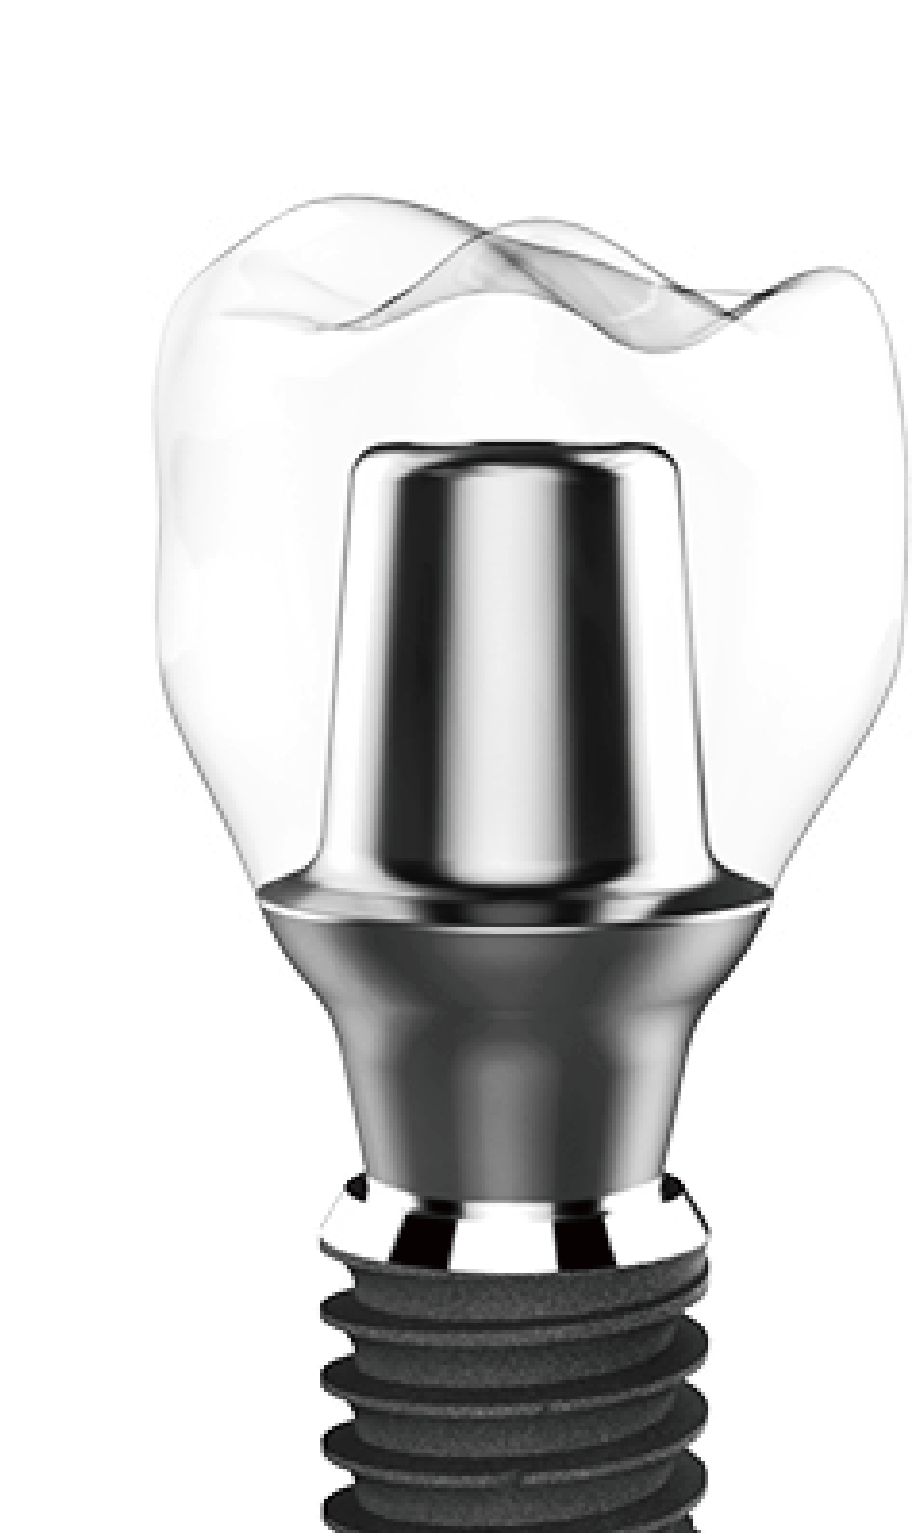
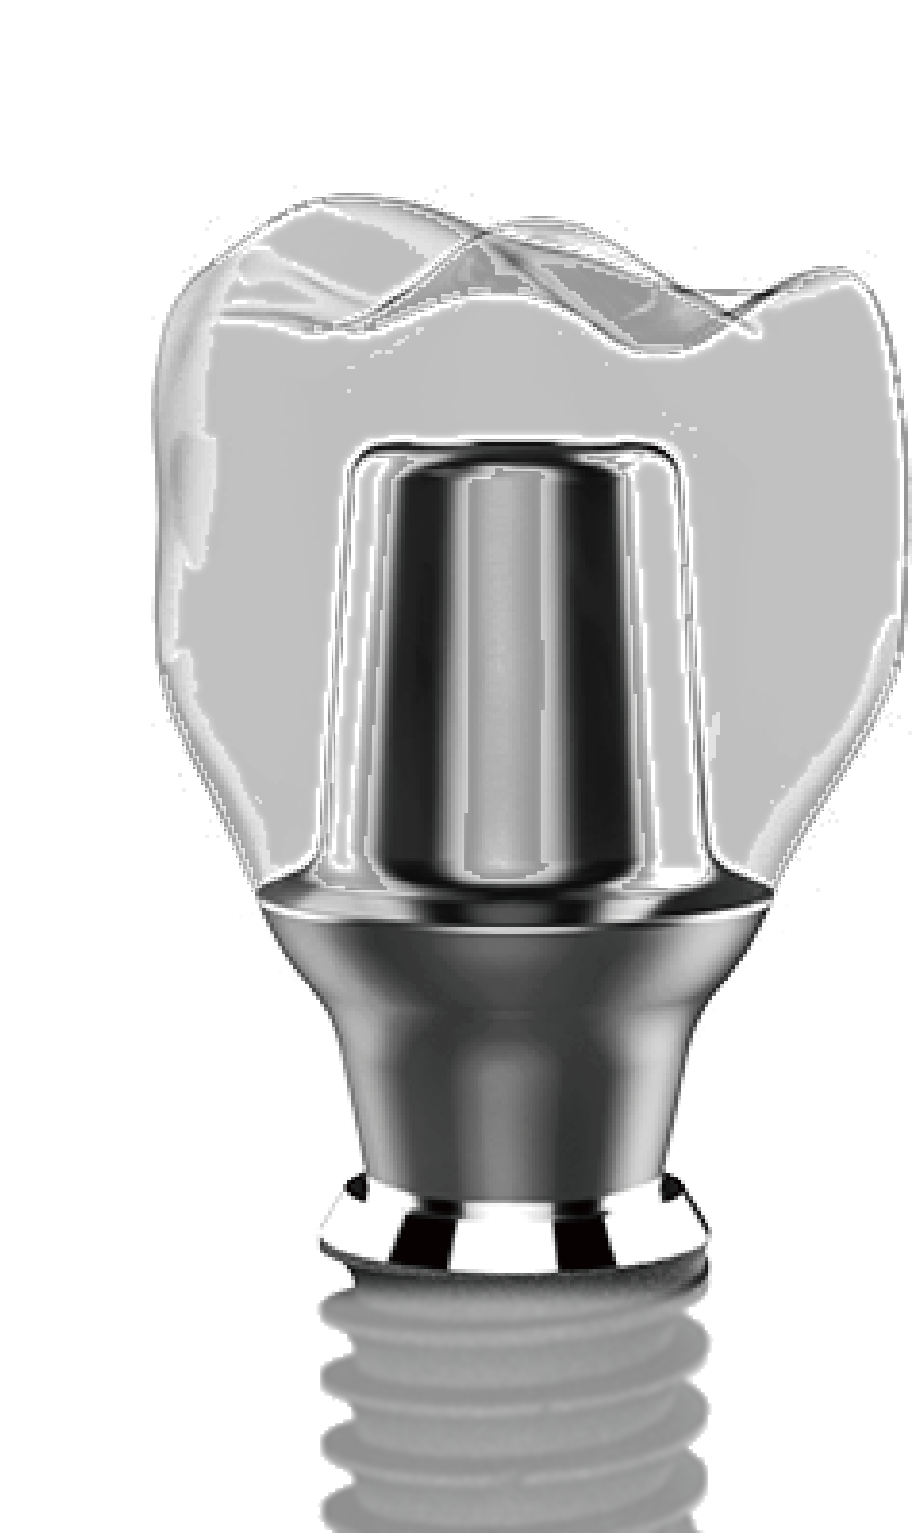
Refresh the Simpleway hero abutments and drop their captions.
Use a darker crown and a faded fixture on a white background so the stock and custom cuts match without on-image labels.

Changed region(s): [[0.1525, 0.1226, 1.0, 0.5825], [0.3355, 0.8278, 0.793, 1.0]]

diff --git a/web/frontend/src/features/landing/LandingOfferPage.tsx b/web/frontend/src/features/landing/LandingOfferPage.tsx
@@ -540,40 +540,13 @@ function YoutubeLoopBackground({
   );
 }
 
-/** 여백이 있는 PNG에서 제품이 놓인 가로 중심(0~1). 박스 중심과 다르다. */
-function visualCenterRatio(img: HTMLImageElement): number {
-  const w = img.naturalWidth;
-  const h = img.naturalHeight;
-  const canvas = document.createElement("canvas");
-  canvas.width = w;
-  canvas.height = h;
-  const ctx = canvas.getContext("2d", { willReadFrequently: true });
-  if (!ctx) return 0.5;
-  ctx.drawImage(img, 0, 0);
-  const data = ctx.getImageData(0, 0, w, h).data;
-  let minX = w;
-  let maxX = 0;
-  const step = 4;
-  for (let y = 0; y < h; y += step) {
-    for (let x = 0; x < w; x += step) {
-      const i = (y * w + x) * 4;
-      if (data[i] < 248 || data[i + 1] < 248 || data[i + 2] < 248) {
-        if (x < minX) minX = x;
-        if (x > maxX) maxX = x;
-      }
-    }
-  }
-  if (maxX <= minX) return 0.5;
-  return (minX + maxX) / 2 / w;
-}
-
 /** 소스보다 키우지 않는다. srcs가 둘이면 같은 높이로 한 줄에 둔다. */
 function NativeResolutionPhoto({
   srcs,
-  labels,
+  alts,
 }: {
   srcs: string[];
-  labels?: string[];
+  alts?: string[];
 }) {
   const frameRef = useRef<HTMLDivElement>(null);
   const imgRefs = useRef<Array<HTMLImageElement | null>>([]);
@@ -581,7 +554,6 @@ function NativeResolutionPhoto({
     width: number;
     height: number;
   }> | null>(null);
-  const [centers, setCenters] = useState<number[]>([]);
   const srcKey = srcs.join("|");
 
   const fit = useCallback(() => {
@@ -592,8 +564,7 @@ function NativeResolutionPhoto({
     if (!frame || imgs.length !== srcs.length) return;
     const dpr = window.devicePixelRatio || 1;
     const gap = Math.max(0, srcs.length - 1) * 40;
-    const labelReserve = labels?.some(Boolean) ? 32 : 0;
-    let height = Math.min(320, frame.clientHeight - labelReserve);
+    let height = Math.min(320, frame.clientHeight);
     for (const img of imgs) {
       height = Math.min(height, img.naturalHeight / dpr);
     }
@@ -608,8 +579,7 @@ function NativeResolutionPhoto({
       widths = widths.map((width) => width * scale);
     }
     setBoxes(widths.map((width) => ({ width, height })));
-    setCenters(imgs.map(visualCenterRatio));
-  }, [srcKey, srcs, labels]);
+  }, [srcKey, srcs]);
 
   useLayoutEffect(() => {
     fit();
@@ -636,7 +606,7 @@ function NativeResolutionPhoto({
               imgRefs.current[index] = node;
             }}
             src={src}
-            alt={labels?.[index] ?? ""}
+            alt={alts?.[index] ?? ""}
             draggable={false}
             onLoad={fit}
             className="max-w-none"
@@ -646,20 +616,6 @@ function NativeResolutionPhoto({
                 : { visibility: "hidden" }
             }
           />
-          {labels?.[index] ? (
-            <figcaption
-              className="mt-2 w-full text-center text-[13px] font-medium text-[#0b2a5c] sm:text-[14px]"
-              style={
-                boxes?.[index] && centers[index] != null
-                  ? {
-                      transform: `translateX(${(centers[index] - 0.5) * boxes[index].width}px)`,
-                    }
-                  : undefined
-              }
-            >
-              {labels[index]}
-            </figcaption>
-          ) : null}
         </figure>
       ))}
     </div>
@@ -674,7 +630,7 @@ function MediaFrame({
   drift,
   native,
   companionSrc,
-  labels,
+  companionAlt,
   className,
 }: {
   visual: OfferVisualModel;
@@ -686,7 +642,7 @@ function MediaFrame({
   native?: boolean;
   /** native 스틸 오른쪽 짝 */
   companionSrc?: string;
-  labels?: string[];
+  companionAlt?: string;
   className?: string;
 }) {
   return (
@@ -730,7 +686,11 @@ function MediaFrame({
       ) : visual.kind === "photo" && native ? (
         <NativeResolutionPhoto
           srcs={companionSrc ? [visual.src, companionSrc] : [visual.src]}
-          labels={labels}
+          alts={
+            visual.kind === "photo"
+              ? [visual.alt, companionAlt ?? ""]
+              : undefined
+          }
         />
       ) : (
         <div
@@ -1215,9 +1175,9 @@ export function LandingOfferPage({ offer }: { offer: LandingOffer }) {
                         ? offer.heroCompanion.src
                         : undefined
                     }
-                    labels={
-                      offer.heroCompanion
-                        ? ["어벗츠 심플어벗", "어벗츠 커스텀어벗"]
+                    companionAlt={
+                      offer.heroCompanion?.kind === "photo"
+                        ? offer.heroCompanion.alt
                         : undefined
                     }
                     className="absolute inset-0 h-full"

diff --git a/web/frontend/src/features/landing/landingAssets.ts b/web/frontend/src/features/landing/landingAssets.ts
@@ -33,10 +33,10 @@ export const LANDING_SW_YOUTUBE_SEGMENTS = [
 /** 시크 전 가림용 — Guide Kit 스틸 (Install 키트·챕터 타이틀 미포함) */
 export const LANDING_SW_YOUTUBE_POSTER = "/landing/simpleway/guide-kit.jpg";
 export const LANDING_SW_CATALOG_ASSEMBLY =
-  "/landing/simpleway/catalog-assembly.png";
-/** 히어로 — 어벗츠 커스텀어벗. 심플어벗 조립도에서 어벗만 바꾼 컷 */
+  "/landing/simpleway/catalog-assembly.png?v=20";
+/** 히어로 — 커스텀어벗. 픽스처는 흐리고 크라운은 진하게 */
 export const LANDING_SW_CUSTOM_ASSEMBLY =
-  "/landing/simpleway/gribo-custom-assembly.png?v=19";
+  "/landing/simpleway/gribo-custom-assembly.png?v=20";
 /** Flow Chart 직경 라인 (10→6, 맨 아래 6=노랑) */
 export const LANDING_SW_FLOW_ROWS = [
   {
